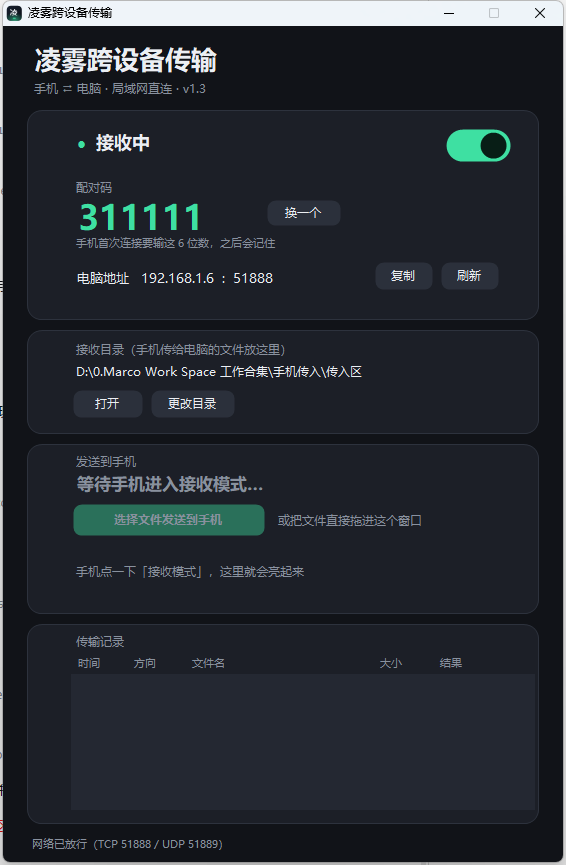
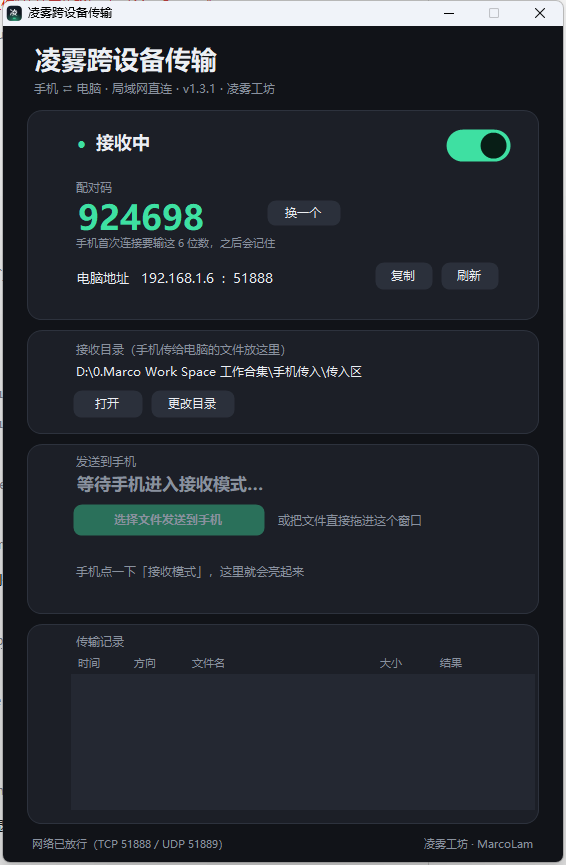
v1.3.1: 全端署名 凌雾工坊 · MarcoLam
- 电脑端副标题与右下角署名、exe 属性（公司/版权）
- 手机端页脚署名
- README 作者区块、LICENSE 版权行
- 发布清单补充签名说明

Changed region(s): [[0.1201, 0.2185, 0.3604, 0.2809], [0.7509, 0.9676, 0.9311, 0.9988], [0.3905, 0.0936, 0.4806, 0.1249]]

diff --git a/src/pc/MainForm.cs b/src/pc/MainForm.cs
@@ -89,7 +89,7 @@ namespace Lingwu.Transfer
             };
 
             Lbl(this, "凌雾跨设备传输", Fonts.Get(19f, FontStyle.Bold), Palette.Text, 26, 16, 480, 34);
-            Lbl(this, "手机 ⇄ 电脑 · 局域网直连 · v1.3", Fonts.Get(9f, FontStyle.Regular), Palette.Sub, 28, 52, 480, 20);
+            Lbl(this, "手机 ⇄ 电脑 · 局域网直连 · v1.3.1 · 凌雾工坊", Fonts.Get(9f, FontStyle.Regular), Palette.Sub, 28, 52, 480, 20);
 
             // ---------- 卡片一：状态 / 配对码 / 地址 ----------
             CardPanel c1 = NewCard(24, 84, 512, 210);
@@ -184,8 +184,12 @@ namespace Lingwu.Transfer
             c4.Controls.Add(_list);
 
             // ---------- 底部提示 ----------
-            _hintLabel = Lbl(this, "托盘常驻：× 收进托盘 · 右键托盘图标可暂停或退出",
-                Fonts.Get(8f, FontStyle.Regular), Palette.Sub, 26, 808, 508, 20);
+            _hintLabel = Lbl(this, "凌雾工坊 · MarcoLam",
+                Fonts.Get(8f, FontStyle.Regular), Palette.Sub, 26, 808, 360, 20);
+
+            // 作者署名单独放右下角，不会被运行状态覆盖
+            Label author = Lbl(this, "凌雾工坊 · MarcoLam", Fonts.Get(8f, FontStyle.Regular), Palette.Sub, 386, 808, 148, 20);
+            author.TextAlign = ContentAlignment.MiddleRight;
             _hintLabel.AutoEllipsis = true;
 
             BuildTray();

diff --git a/src/android/java/com/lingwu/transfer/MainActivity.java b/src/android/java/com/lingwu/transfer/MainActivity.java
@@ -185,7 +185,7 @@ public class MainActivity extends Activity {
         scroll.addView(root);
 
         root.addView(tv("凌雾跨设备传输", 23, TEXT, true));
-        TextView sub = tv("手机 ⇄ 电脑 · 局域网直连 · v1.3", 12, SUB, false);
+        TextView sub = tv("手机 ⇄ 电脑 · 局域网直连 · v1.3.1 · 凌雾工坊", 12, SUB, false);
         sub.setPadding(0, dp(4), 0, dp(4));
         root.addView(sub);
 
@@ -328,7 +328,7 @@ public class MainActivity extends Activity {
         c3.addView(tvLog);
         root.addView(c3);
 
-        TextView foot = tv("搜不到电脑：先点「深度搜索」；仍不行就手动填地址 + 配对码，点「测试连接」。\n公共 WiFi 上别传隐私文件。", 11, SUB, false);
+        TextView foot = tv("搜不到电脑：先点「深度搜索」；仍不行就手动填地址 + 配对码，点「测试连接」。\n公共 WiFi 上别传隐私文件。\n\n凌雾工坊 · MarcoLam ｜ 源码公开 · 个人免费 · 禁止商用", 11, SUB, false);
         foot.setPadding(0, dp(14), 0, 0);
         root.addView(foot);
 

diff --git a/src/pc/Program.cs b/src/pc/Program.cs
@@ -6,6 +6,15 @@ using System.Threading;
 using System.Windows.Forms;
 using System.Runtime.InteropServices;
 
+// 程序属性：显示在 exe「属性 → 详细信息」里，也是源码公开项目的作者署名
+[assembly: System.Reflection.AssemblyTitle("凌雾跨设备传输")]
+[assembly: System.Reflection.AssemblyDescription("手机 ⇄ 电脑 · 局域网直连文件传输，不经过任何服务器")]
+[assembly: System.Reflection.AssemblyCompany("凌雾工坊")]
+[assembly: System.Reflection.AssemblyProduct("凌雾跨设备传输")]
+[assembly: System.Reflection.AssemblyCopyright("Copyright © 2026 凌雾工坊 · MarcoLam")]
+[assembly: System.Reflection.AssemblyVersion("1.3.1.0")]
+[assembly: System.Reflection.AssemblyFileVersion("1.3.1.0")]
+
 namespace Lingwu.Transfer
 {
     static class Program

diff --git a/发布清单.md b/发布清单.md
@@ -127,3 +127,56 @@ build/make-icons.ps1    从零生成 ico + mipmap
 docs/                   使用说明与界面截图
 发布清单.md              本文件
 ```
+
+---
+
+## 10. 作者署名（已内置，不用你再做）
+
+| 位置 | 显示内容 |
+|---|---|
+| 电脑端窗口副标题 | `手机 ⇄ 电脑 · 局域网直连 · v1.3.1 · 凌雾工坊` |
+| 电脑端右下角（常驻，不被状态覆盖） | `凌雾工坊 · MarcoLam` |
+| exe 文件属性 → 详细信息 | 公司：凌雾工坊；版权：Copyright © 2026 凌雾工坊 · MarcoLam |
+| 手机端首页页脚 | `凌雾工坊 · MarcoLam ｜ 源码公开 · 个人免费 · 禁止商用` |
+| 仓库 README 顶部 | 作者区块 + 版权行 |
+| LICENSE 顶部 | 版权行 + 商业授权联系方式 |
+| git 提交作者 | 用 `凌雾工坊 · MarcoLam` 作 author name，GitHub 头像/显示名建议一致 |
+
+建议：GitHub 个人资料里 Display name 设为 `凌雾工坊 · MarcoLam`，头像用同一张「凌」字图标，
+这样仓库、Release、Issue 回答里都是同一个标识。
+
+---
+
+## 11. 关于「签名密钥」——大白话版
+
+**签名 = 你的 App 的身份证。** 安卓系统靠它判断「这次更新的包，是不是同一个作者发的」。
+
+- **调试密钥（debug keystore）**：每个装了 Android SDK 的电脑都有一把，密码是公开的 `android`。
+  等于**全世界共用一把模具配出来的钥匙**。如果你用它发布，任何人都能配一把同样的，签一个改过的包，
+  系统会认为"这就是同一个 App 的升级"，用户可能直接装上去（你的名字背锅）。
+- **正式密钥（release keystore）**：你自己生成的、只在你手里的密钥。用它签的包，只有你能发升级。
+
+**所以要做两件事：**
+
+1. 生成一把自己的密钥（只做一次，**做好两份离线备份**，丢了就永远无法给已装的用户发升级）：
+
+```powershell
+& "$env:JAVA_HOME\bin\keytool.exe" -genkeypair -keystore .\lingwu-release.keystore `
+  -alias lingwu -keyalg RSA -keysize 2048 -validity 36500 `
+  -dname "CN=Lingwu Workshop, O=Lingwu Workshop, C=CN"
+```
+
+2. 用它重新签发布包：
+
+```powershell
+powershell -ExecutionPolicy Bypass -File build/build-apk.ps1 `
+  -JdkBin "C:\jdk-17\bin" `
+  -AndroidJar "C:\android-sdk\platforms\android-34\android.jar" `
+  -BuildTools "C:\android-sdk\build-tools\34.0.0" `
+  -Keystore "D:\备份\lingwu-release.keystore" -KsPass "你的密码" -KeyAlias "lingwu"
+```
+
+**注意**：换了签名之后，手机上已装的旧版（调试签名）**不能覆盖安装**，必须先卸载再装新版。
+所以这件事**越早做越好**——现在只有你在用，代价几乎为零。
+
+**绝对不要**把 `*.keystore` 传进仓库（`.gitignore` 已排除，且我验证过暂存区干净）。

diff --git a/CHANGELOG.md b/CHANGELOG.md
@@ -2,6 +2,13 @@
 
 遵循 [语义化版本](https://semver.org/lang/zh-CN/)。
 
+## v1.3.1 — 2026-11-03
+
+### 变更
+- 全端署名：电脑端窗口副标题「v1.3.1 · 凌雾工坊」、右下角常驻「凌雾工坊 · MarcoLam」
+- exe 文件属性：公司 = 凌雾工坊，版权 = Copyright © 2026 凌雾工坊 · MarcoLam
+- 手机端页脚署名「凌雾工坊 · MarcoLam ｜ 源码公开 · 个人免费 · 禁止商用」
+- APK versionCode 5 / versionName 1.3.1
 ## v1.3.0 — 2026-10-31
 
 ### 新增

diff --git a/README.md b/README.md
@@ -2,6 +2,8 @@
 
 > 手机 ⇄ 电脑，同一个局域网内直接传文件。不登录、不上传、不经过任何服务器。
 > Android + Windows 双端，**零第三方依赖**（无 SDK、无统计、无广告）。
+**作者 / Author：凌雾工坊 · MarcoLam** ｜ 源码公开 · 个人使用免费 · 商业使用需书面授权
+© 2026 凌雾工坊 · MarcoLam ｜ 许可证：[PolyForm Noncommercial 1.0.0](LICENSE)
 
 ![电脑端](docs/界面预览.png)
 
